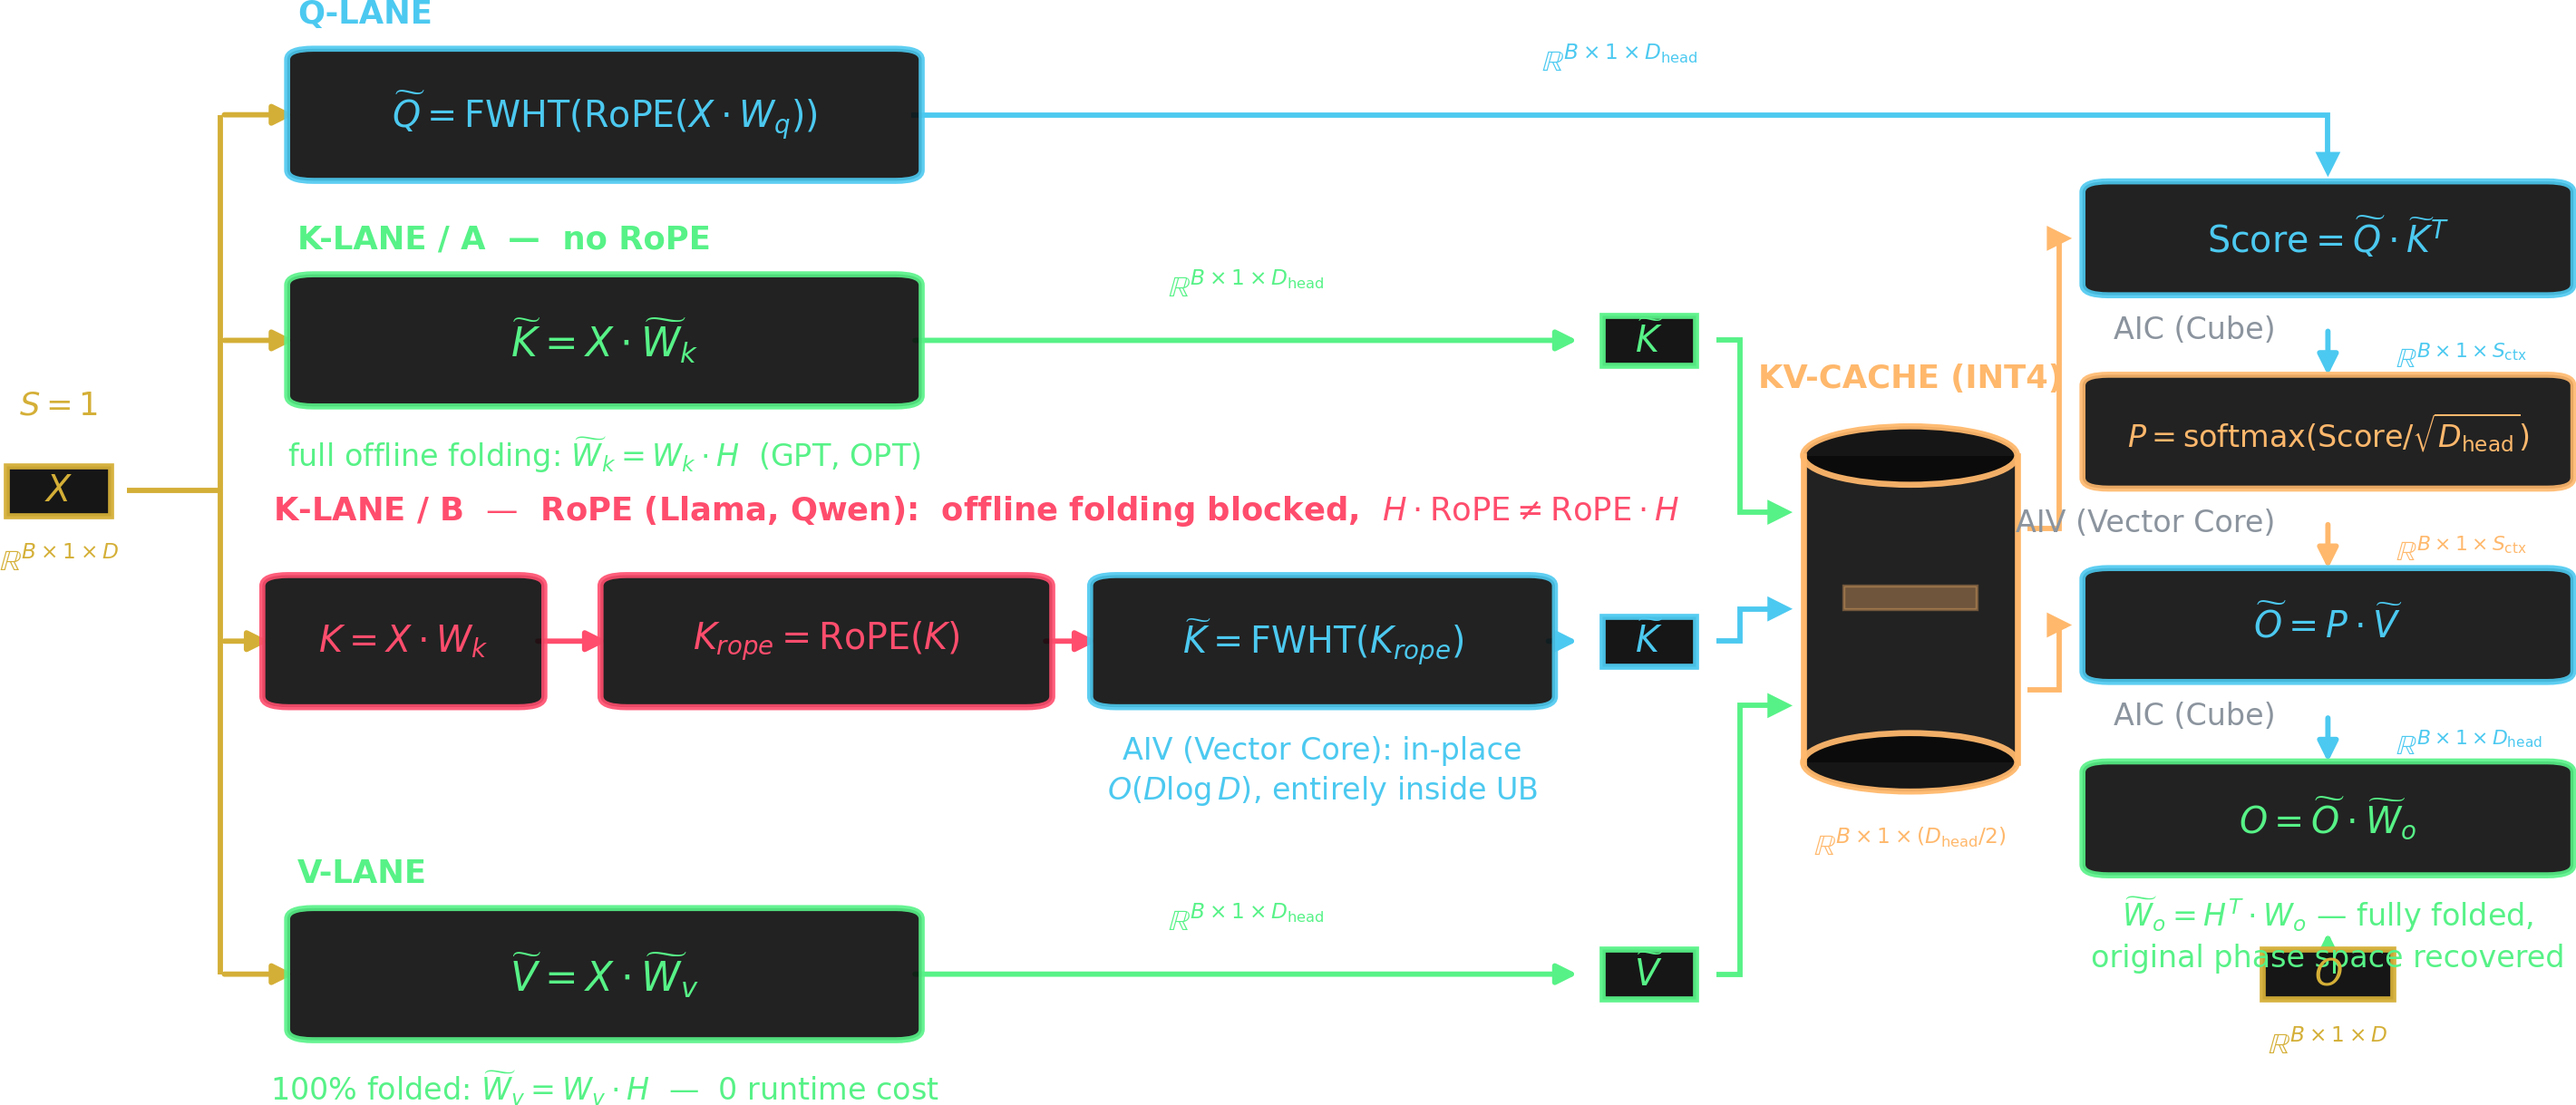
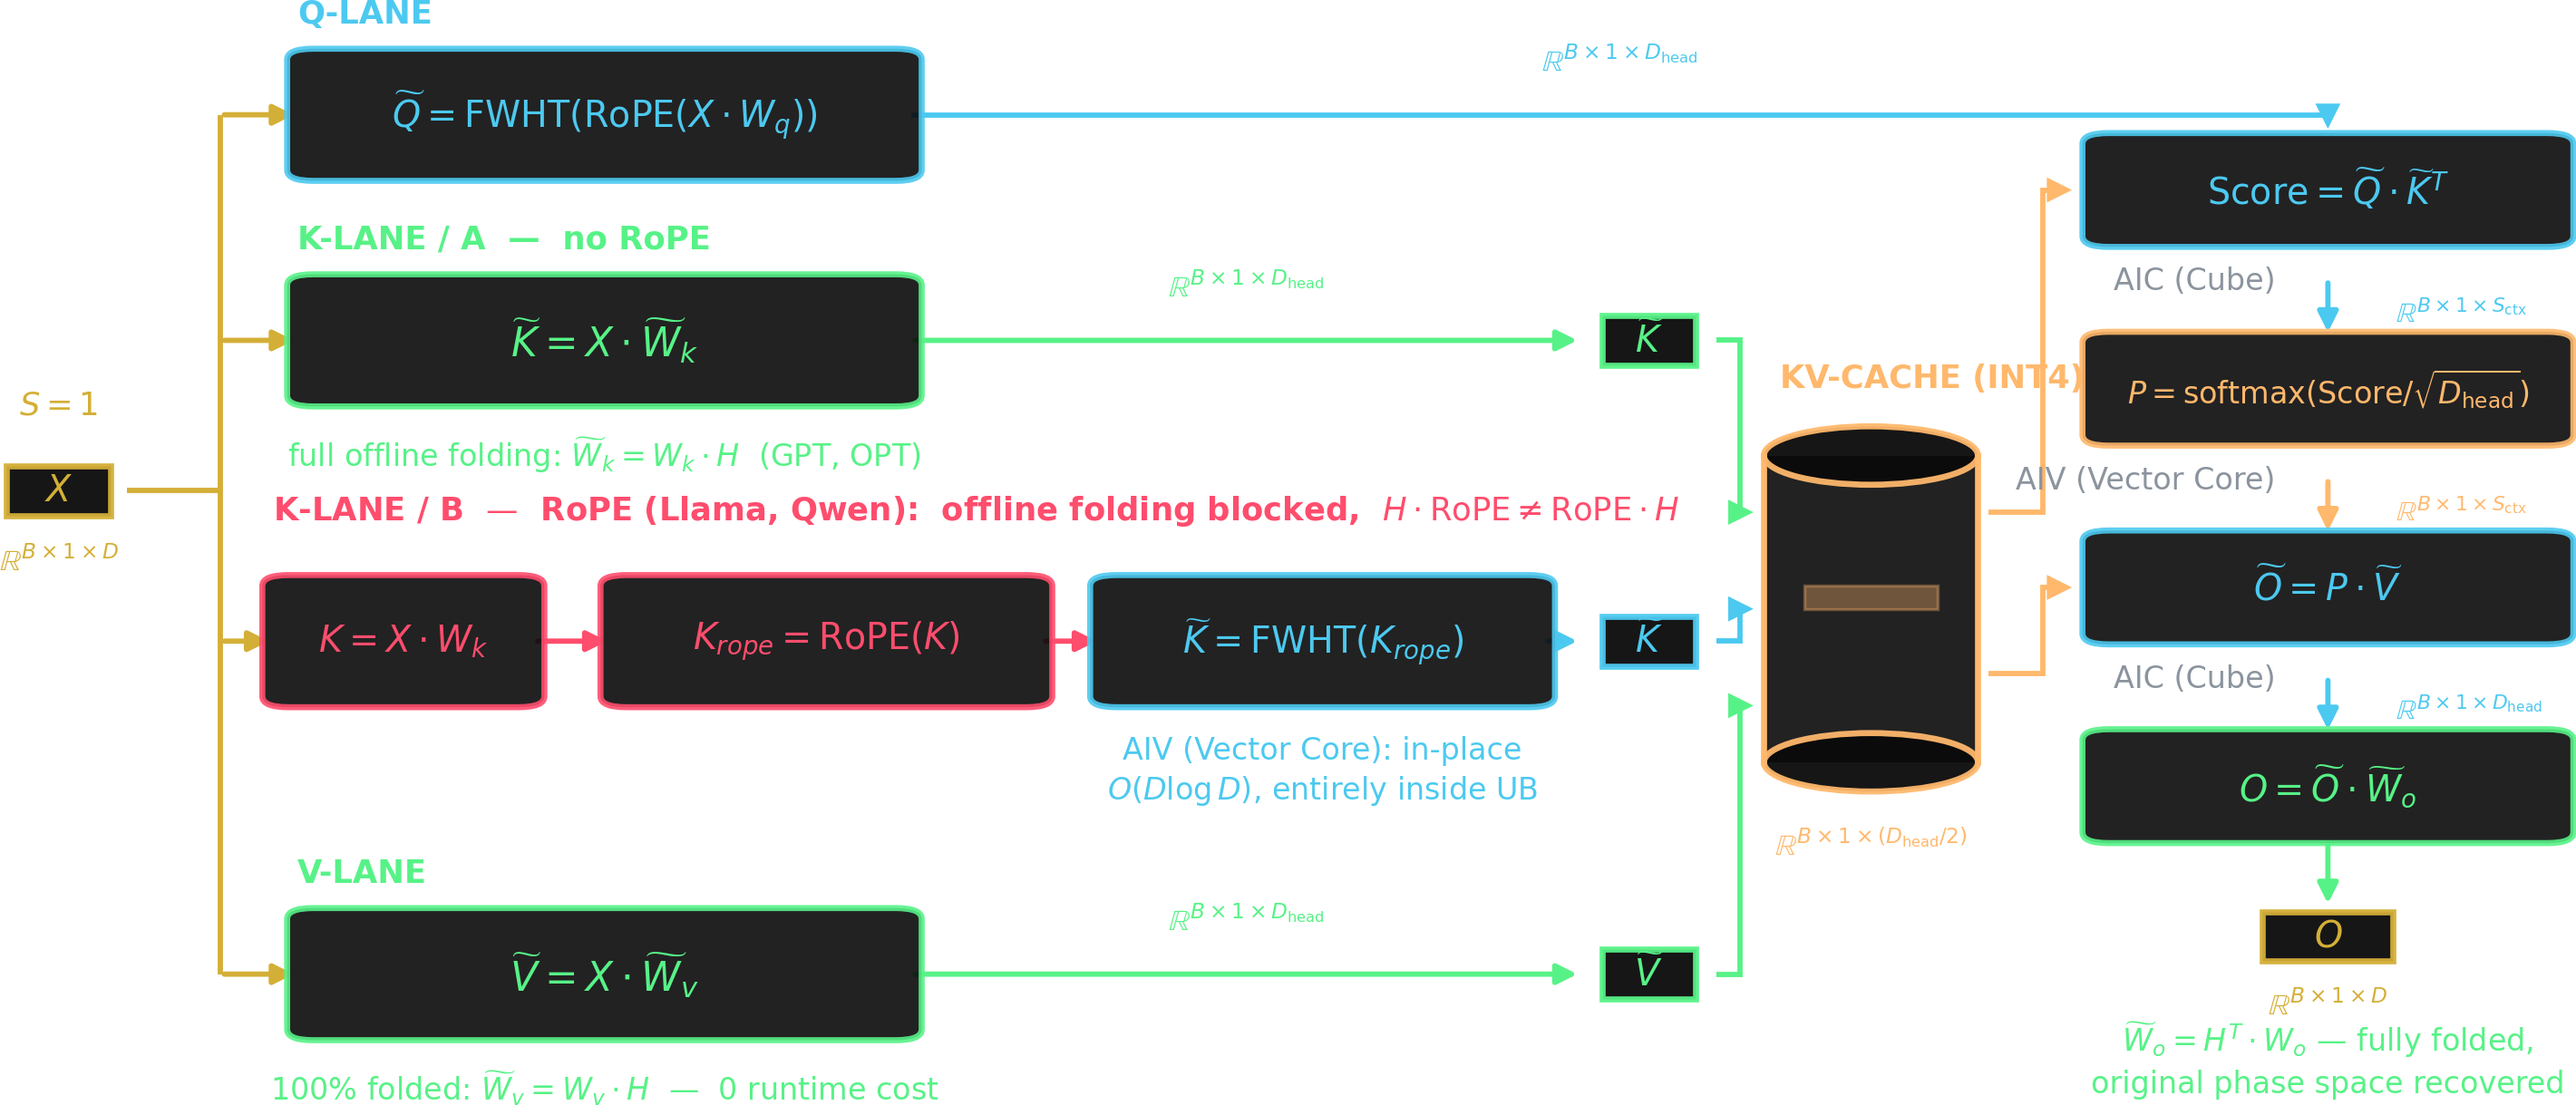
[fix]

Changed region(s): [[0.6815, 0.0935, 1.0, 0.9975], [0.6815, 0.7482, 0.7744, 0.7793]]

diff --git a/dataflow_diagrams.py b/dataflow_diagrams.py
@@ -101,7 +101,8 @@ def tensor(ax, cx, cy, w, h, color, dims=None, layers=1, label=None,
     return cx + w / 2 + (layers - 1) * dx
 
 
-def kv_cache(ax, cx, cy, w, h, color, dims=None, layers=3, title=None):
+def kv_cache(ax, cx, cy, w, h, color, dims=None, layers=3, title=None,
+             title_dx=0.0, title_ha='center'):
     """Хранилище KV: цилиндр, внутри -- лежащие друг на друге страницы кэша."""
     ry = _x_of(ax, 0.0) or 0.0
     ell_h = h * 0.16
@@ -123,8 +124,9 @@ def kv_cache(ax, cx, cy, w, h, color, dims=None, layers=3, title=None):
                                facecolor=color, alpha=0.35, edgecolor=color,
                                linewidth=0.8, zorder=5))
     if title:
-        ax.text(cx, cy + h / 2 + 0.03, title, color=color, fontsize=FS_LANE,
-                ha='center', va='bottom', zorder=5, fontweight='bold')
+        ax.text(cx + title_dx, cy + h / 2 + 0.03, title, color=color,
+                fontsize=FS_LANE, ha=title_ha, va='bottom', zorder=5,
+                fontweight='bold')
     if dims:
         ax.text(cx, cy - h / 2 - 0.035, dims, color=color, fontsize=FS_DIMS,
                 ha='center', va='top', zorder=5, linespacing=1.4)
@@ -330,7 +332,7 @@ def decode_diagram(filename='dataflow_decode.png'):
     H_OP, H_T = 0.115, 0.046
     X_IN, W_IN = 0.036, 0.040
     X_T, W_T = 0.645, 0.036
-    X_CACHE, W_CACHE = 0.745, 0.082
+    X_CACHE, W_CACHE = 0.730, 0.082
     X_TAIL, W_TAIL = 0.905, 0.180
     X_OP1, W_OP1 = 0.245, 0.235
 
@@ -349,7 +351,7 @@ def decode_diagram(filename='dataflow_decode.png'):
     op_block(ax, X_OP1, Y_Q, W_OP1, H_OP,
              r"$\widetilde{Q} = \mathrm{FWHT}(\mathrm{RoPE}(X \cdot W_q))$", CYAN,
              fontsize=9.5)
-    hv(ax, (X_OP1 + W_OP1 / 2, Y_Q), (X_TAIL, 0.800 + 0.098 / 2 + 0.008),
+    hv(ax, (X_OP1 + W_OP1 / 2, Y_Q), (X_TAIL, 0.845 + 0.098 / 2 + 0.008),
        color=CYAN, dims=DIM_B1H)
 
     # --- K, ветка A: без RoPE поворот вплавляется целиком ---
@@ -397,17 +399,18 @@ def decode_diagram(filename='dataflow_decode.png'):
             (X_CACHE - W_CACHE / 2 - 0.004, y_cache), bus_x=0.680, color=color)
 
     kv_cache(ax, X_CACHE, 0.455, W_CACHE, 0.34, ORANGE, layers=1,
-             title="KV-CACHE (INT4)", dims=DIM_B1_INT4)
+             title="KV-CACHE (INT4)", dims=DIM_B1_INT4,
+             title_dx=-0.035, title_ha='left')
 
     # --- Хвост: Score -> softmax -> P*V -> выходная проекция -> выход ---
     # K читается из кэша в Score, V -- в произведение уже после softmax.
     H_ATT = 0.098
-    Y_SCORE, Y_SM, Y_PV, Y_OUT = 0.800, 0.620, 0.440, 0.260
+    Y_SCORE, Y_SM, Y_PV, Y_OUT = 0.845, 0.660, 0.475, 0.290
 
-    hvh(ax, (X_CACHE + W_CACHE / 2 + 0.004, 0.530),
-        (X_TAIL - W_TAIL / 2 - 0.008, Y_SCORE), bus_x=0.802, color=ORANGE)
-    hvh(ax, (X_CACHE + W_CACHE / 2 + 0.004, 0.380),
-        (X_TAIL - W_TAIL / 2 - 0.008, Y_PV), bus_x=0.802, color=ORANGE)
+    hvh(ax, (X_CACHE + W_CACHE / 2 + 0.004, 0.545),
+        (X_TAIL - W_TAIL / 2 - 0.008, Y_SCORE), bus_x=0.796, color=ORANGE)
+    hvh(ax, (X_CACHE + W_CACHE / 2 + 0.004, 0.395),
+        (X_TAIL - W_TAIL / 2 - 0.008, Y_PV), bus_x=0.796, color=ORANGE)
 
     def _step(y_from, y_to, color, dims):
         arrow(ax, (X_TAIL, y_from - H_ATT / 2 - 0.034), (X_TAIL, y_to + H_ATT / 2),
@@ -435,12 +438,16 @@ def decode_diagram(filename='dataflow_decode.png'):
     _step(Y_PV, Y_OUT, CYAN, DIM_B1H)
 
     op_block(ax, X_TAIL, Y_OUT, W_TAIL, H_ATT,
-             r"$O = \widetilde{O} \cdot \widetilde{W}_o$", GREEN, fontsize=9.5,
-             note=r"$\widetilde{W}_o = H^{T} \cdot W_o$ — fully folded," "\n"
-                  "original phase space recovered", note_color=GREEN, note_gap=0.022)
-    arrow(ax, (X_TAIL, Y_OUT - H_ATT / 2 - 0.072), (X_TAIL, Y_V + 0.042), color=GREEN)
-    tensor(ax, X_TAIL, Y_V, 0.05, H_T, GOLD, layers=1, label=r"$O$", dims=DIM_B1D,
-           dims_gap=0.028)
+             r"$O = \widetilde{O} \cdot \widetilde{W}_o$", GREEN, fontsize=9.5)
+    # Подпись про вплавление уходит под сам выход: между блоком и тензором
+    # идёт стрелка, и текст она бы проткнула.
+    arrow(ax, (X_TAIL, Y_OUT - H_ATT / 2), (X_TAIL, 0.150 + H_T / 2 + 0.004),
+          color=GREEN)
+    tensor(ax, X_TAIL, 0.150, 0.05, H_T, GOLD, layers=1, label=r"$O$", dims=DIM_B1D,
+           dims_gap=0.026)
+    note(ax, X_TAIL, 0.036,
+         r"$\widetilde{W}_o = H^{T} \cdot W_o$ — fully folded," "\n"
+         "original phase space recovered", GREEN)
 
     ds.save_transparent(fig, filename, pad_inches=0.03)
     return filename

diff --git a/setup.py b/setup.py
@@ -400,7 +400,7 @@ add_title(slide_prefill, "Prefill Phase Dataflow: Exploiting Cube with Batched W
 # Схема несёт формулы и размерности; текст снизу -- только вывод по железу.
 add_side_image(slide_prefill, "dataflow_prefill.png", left=0.5, top=0.90, width=9.0)
 
-add_block(slide_prefill, 4.78, "Why the rotation is profitable on the Cube here", GREEN_COLOR, [
+add_block(slide_prefill, 4.52, "Why the rotation is profitable on the Cube here", GREEN_COLOR, [
     "Prefill consumes the whole prompt at once: a GEMM row count of B × S fully populates the 16 × 16 × C0 systolic tiles,",
     "so the Hadamard rotation is nearly free on top of the projection it is fused with — K is rotated on the Cube, before Attention."
 ], width=9.0, line_spacing=1.15, title_size=12, body_size=10)
